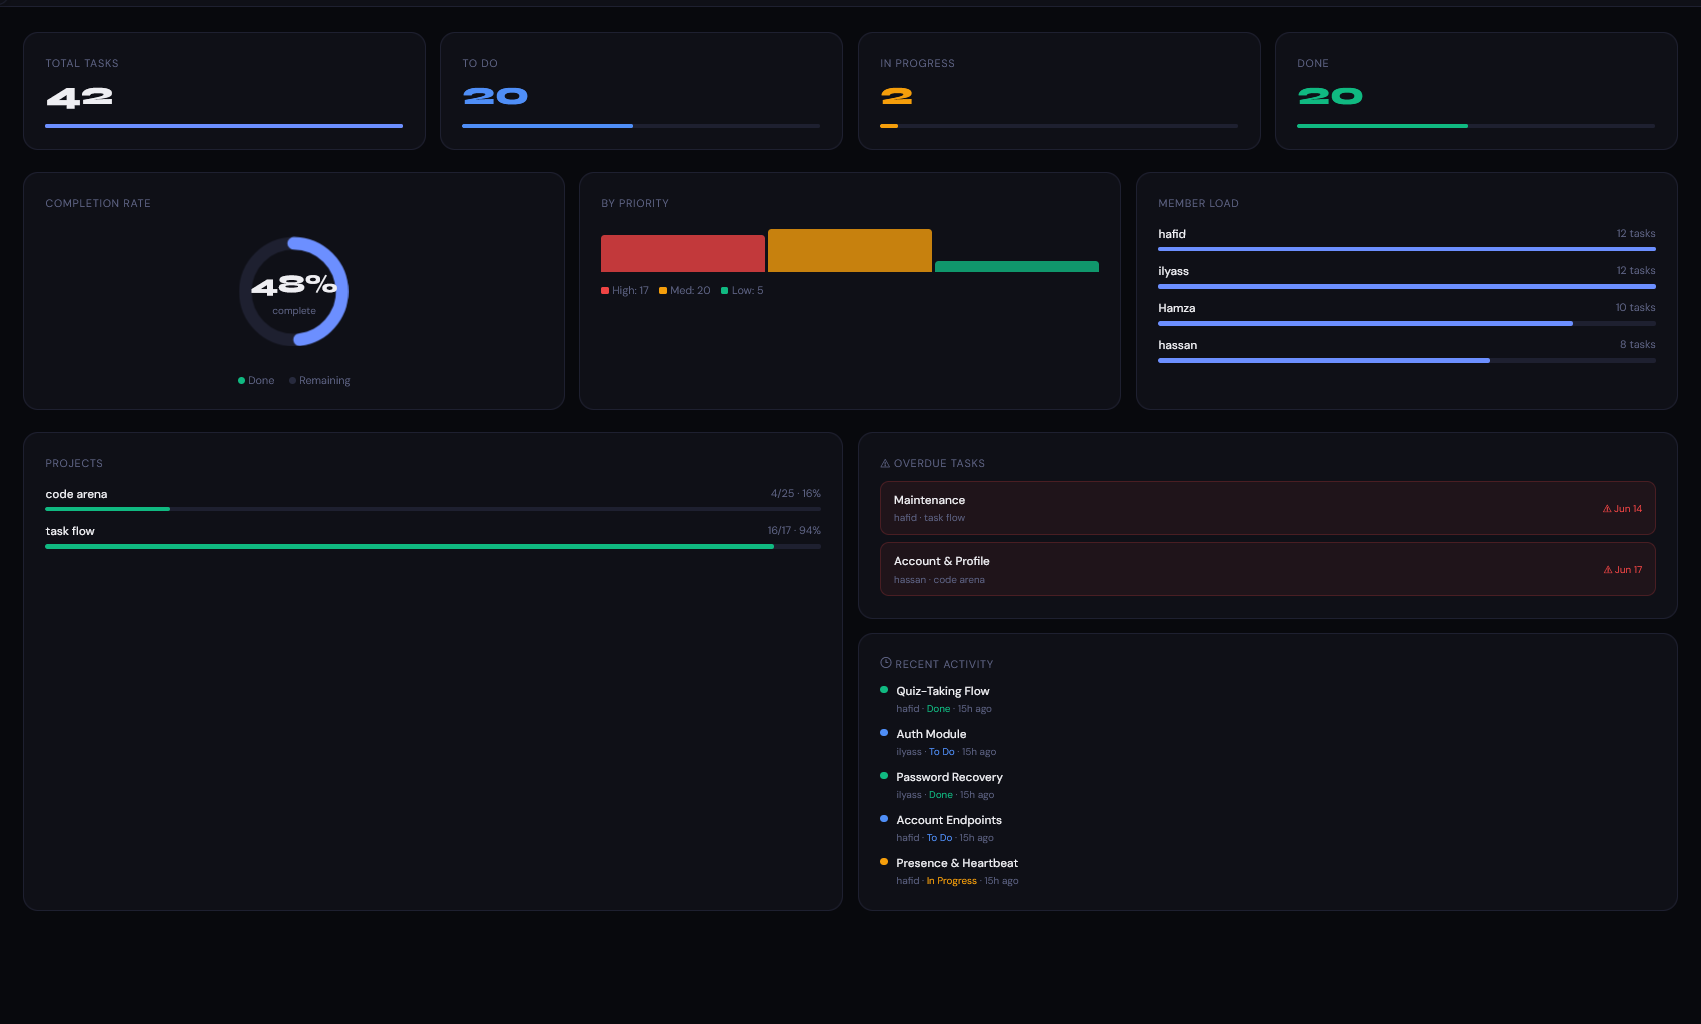
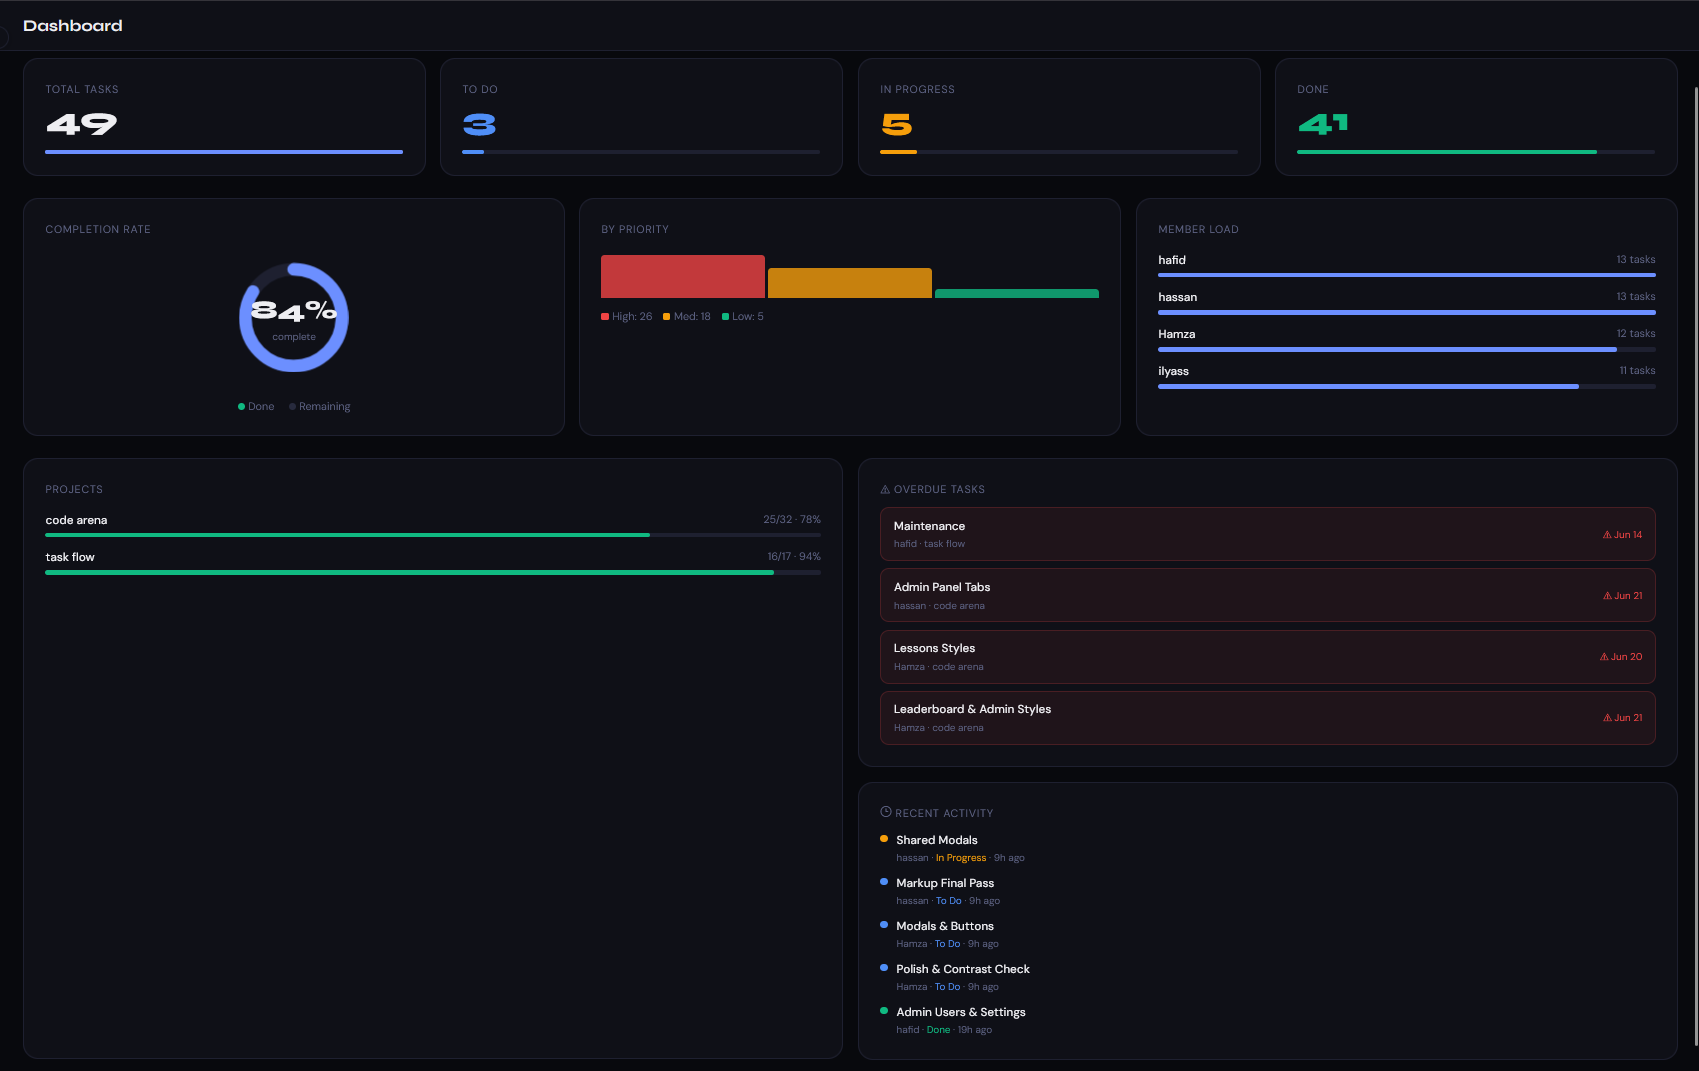
Refactor code structure for improved readability and maintainability

diff --git a/README.md b/README.md
@@ -25,10 +25,6 @@ A modern full-stack task management application designed to help teams organize,
 
 ![alt text](assets/image.png)
 
-```md
-![Dashboard](assets/dashboard.png)
-```
-
 ### Kanban Board
 
 ```md
